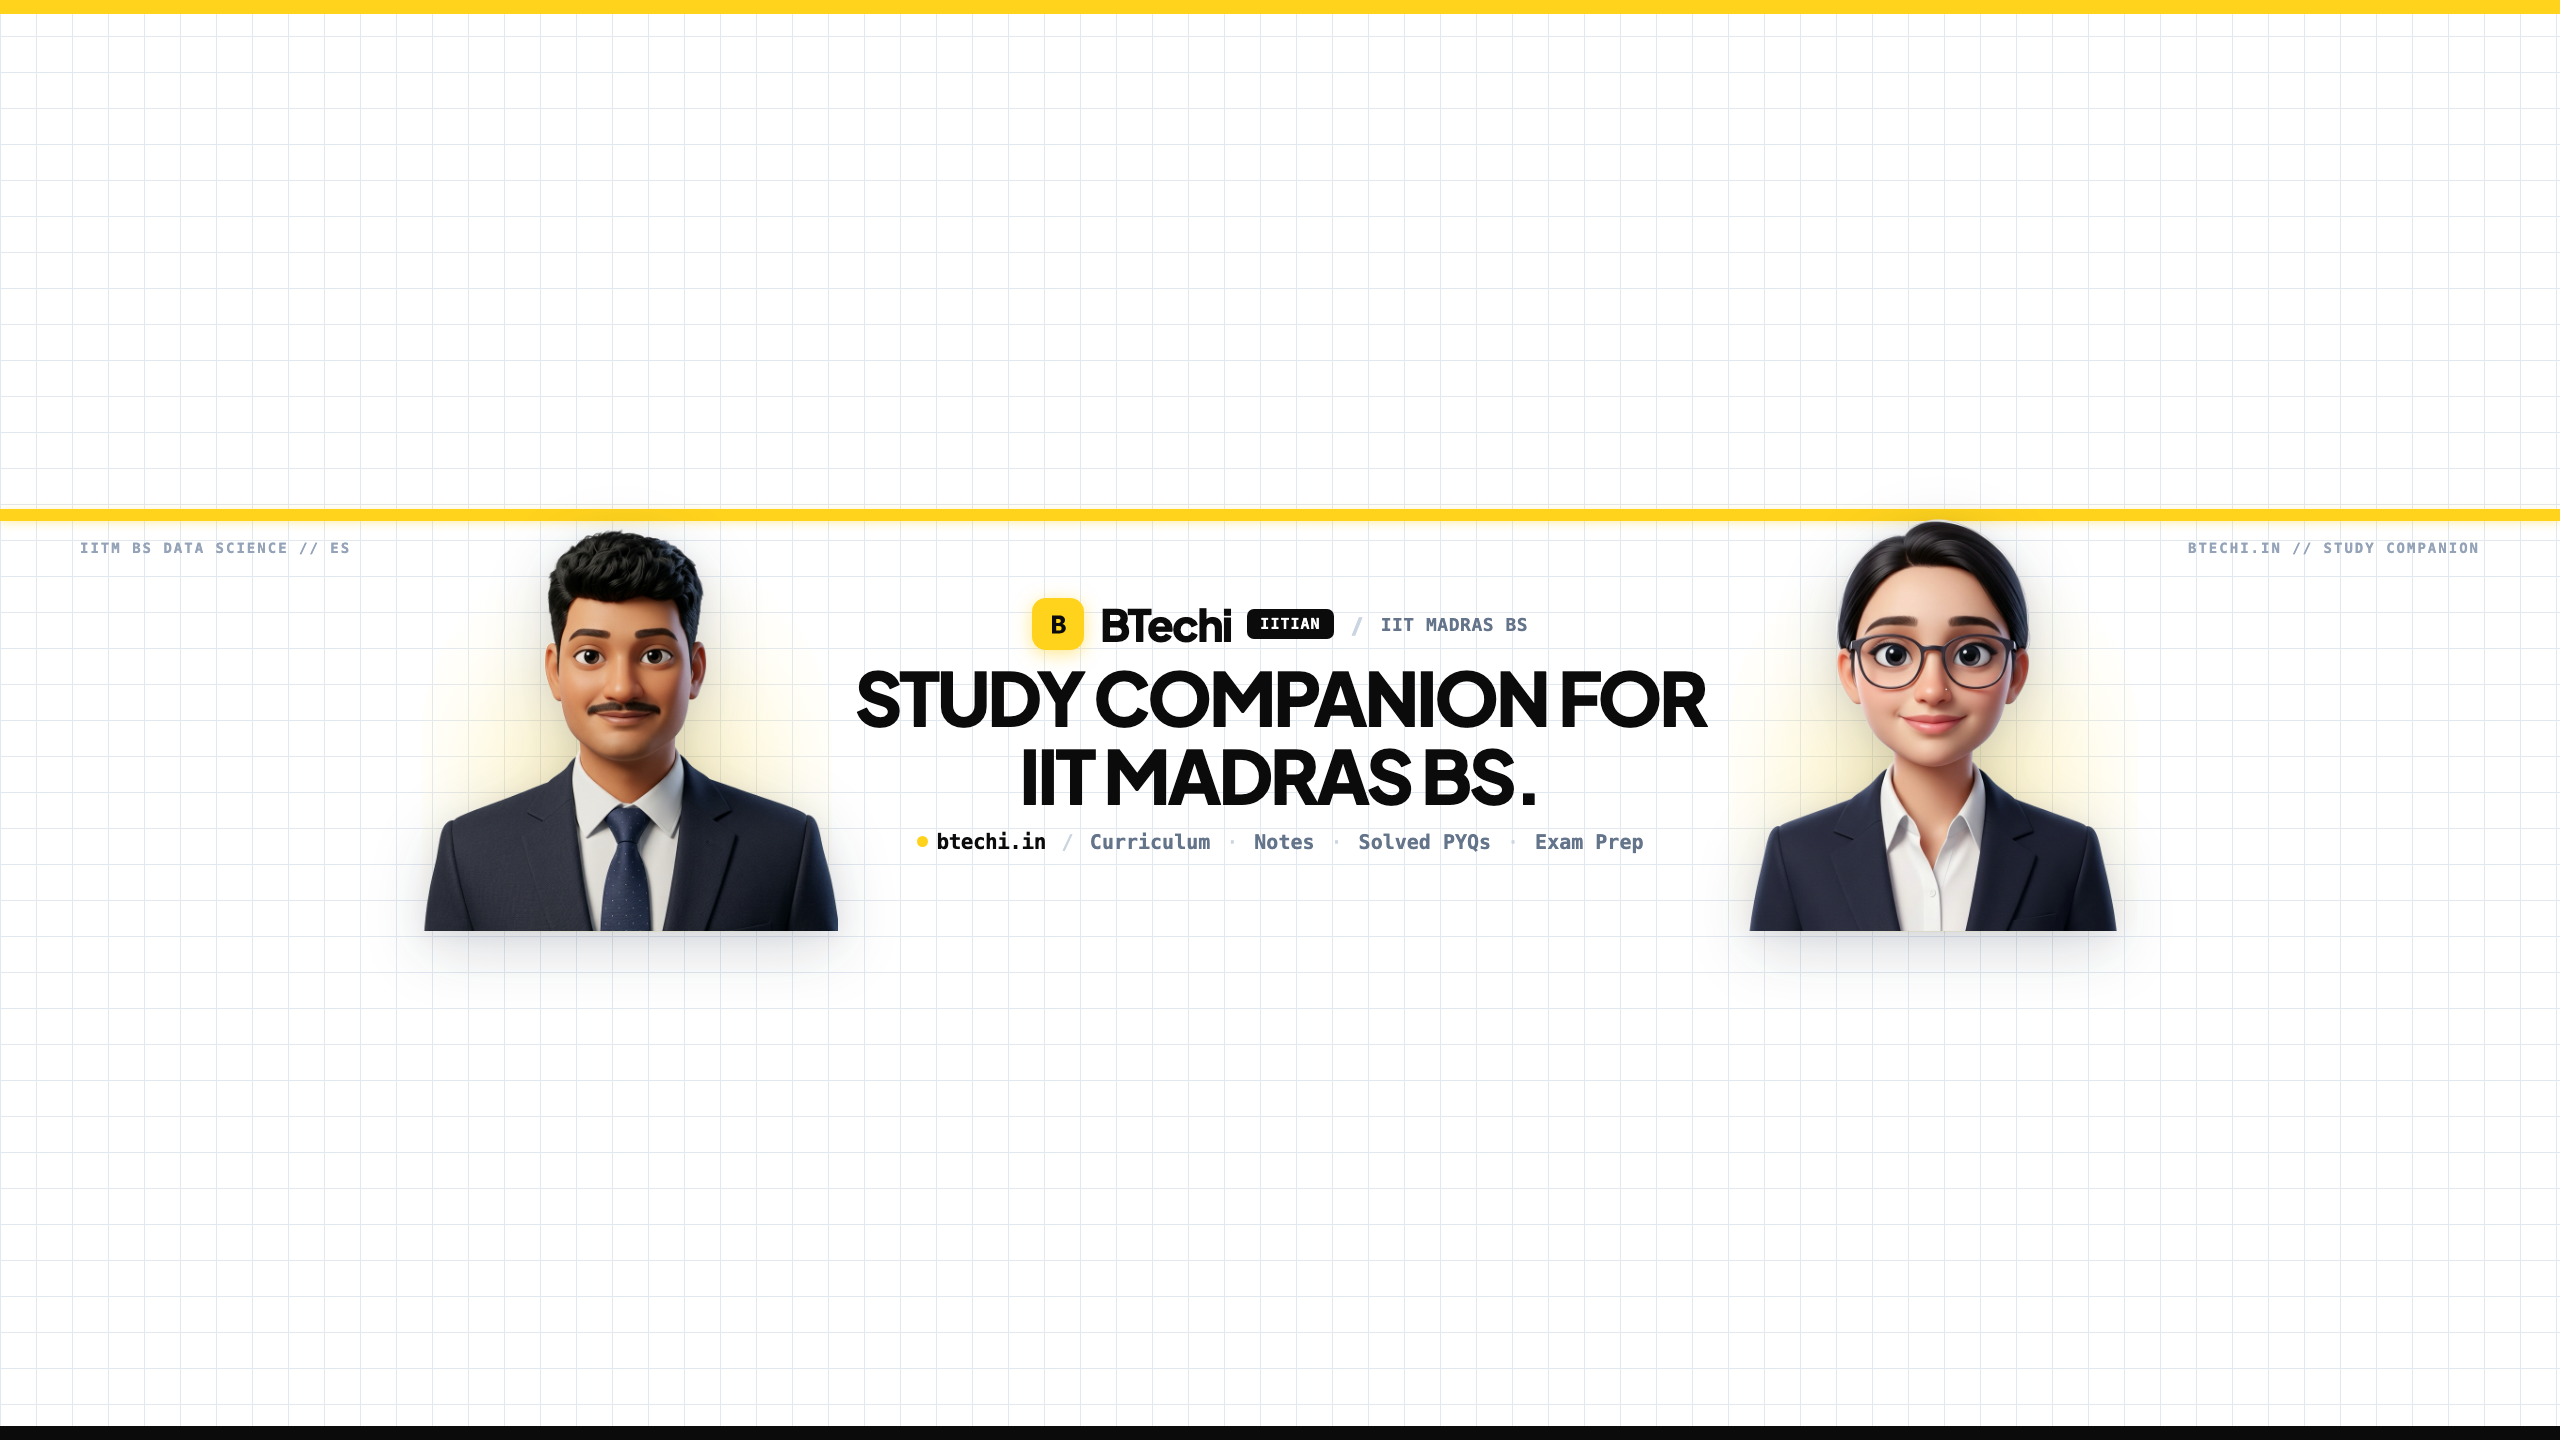
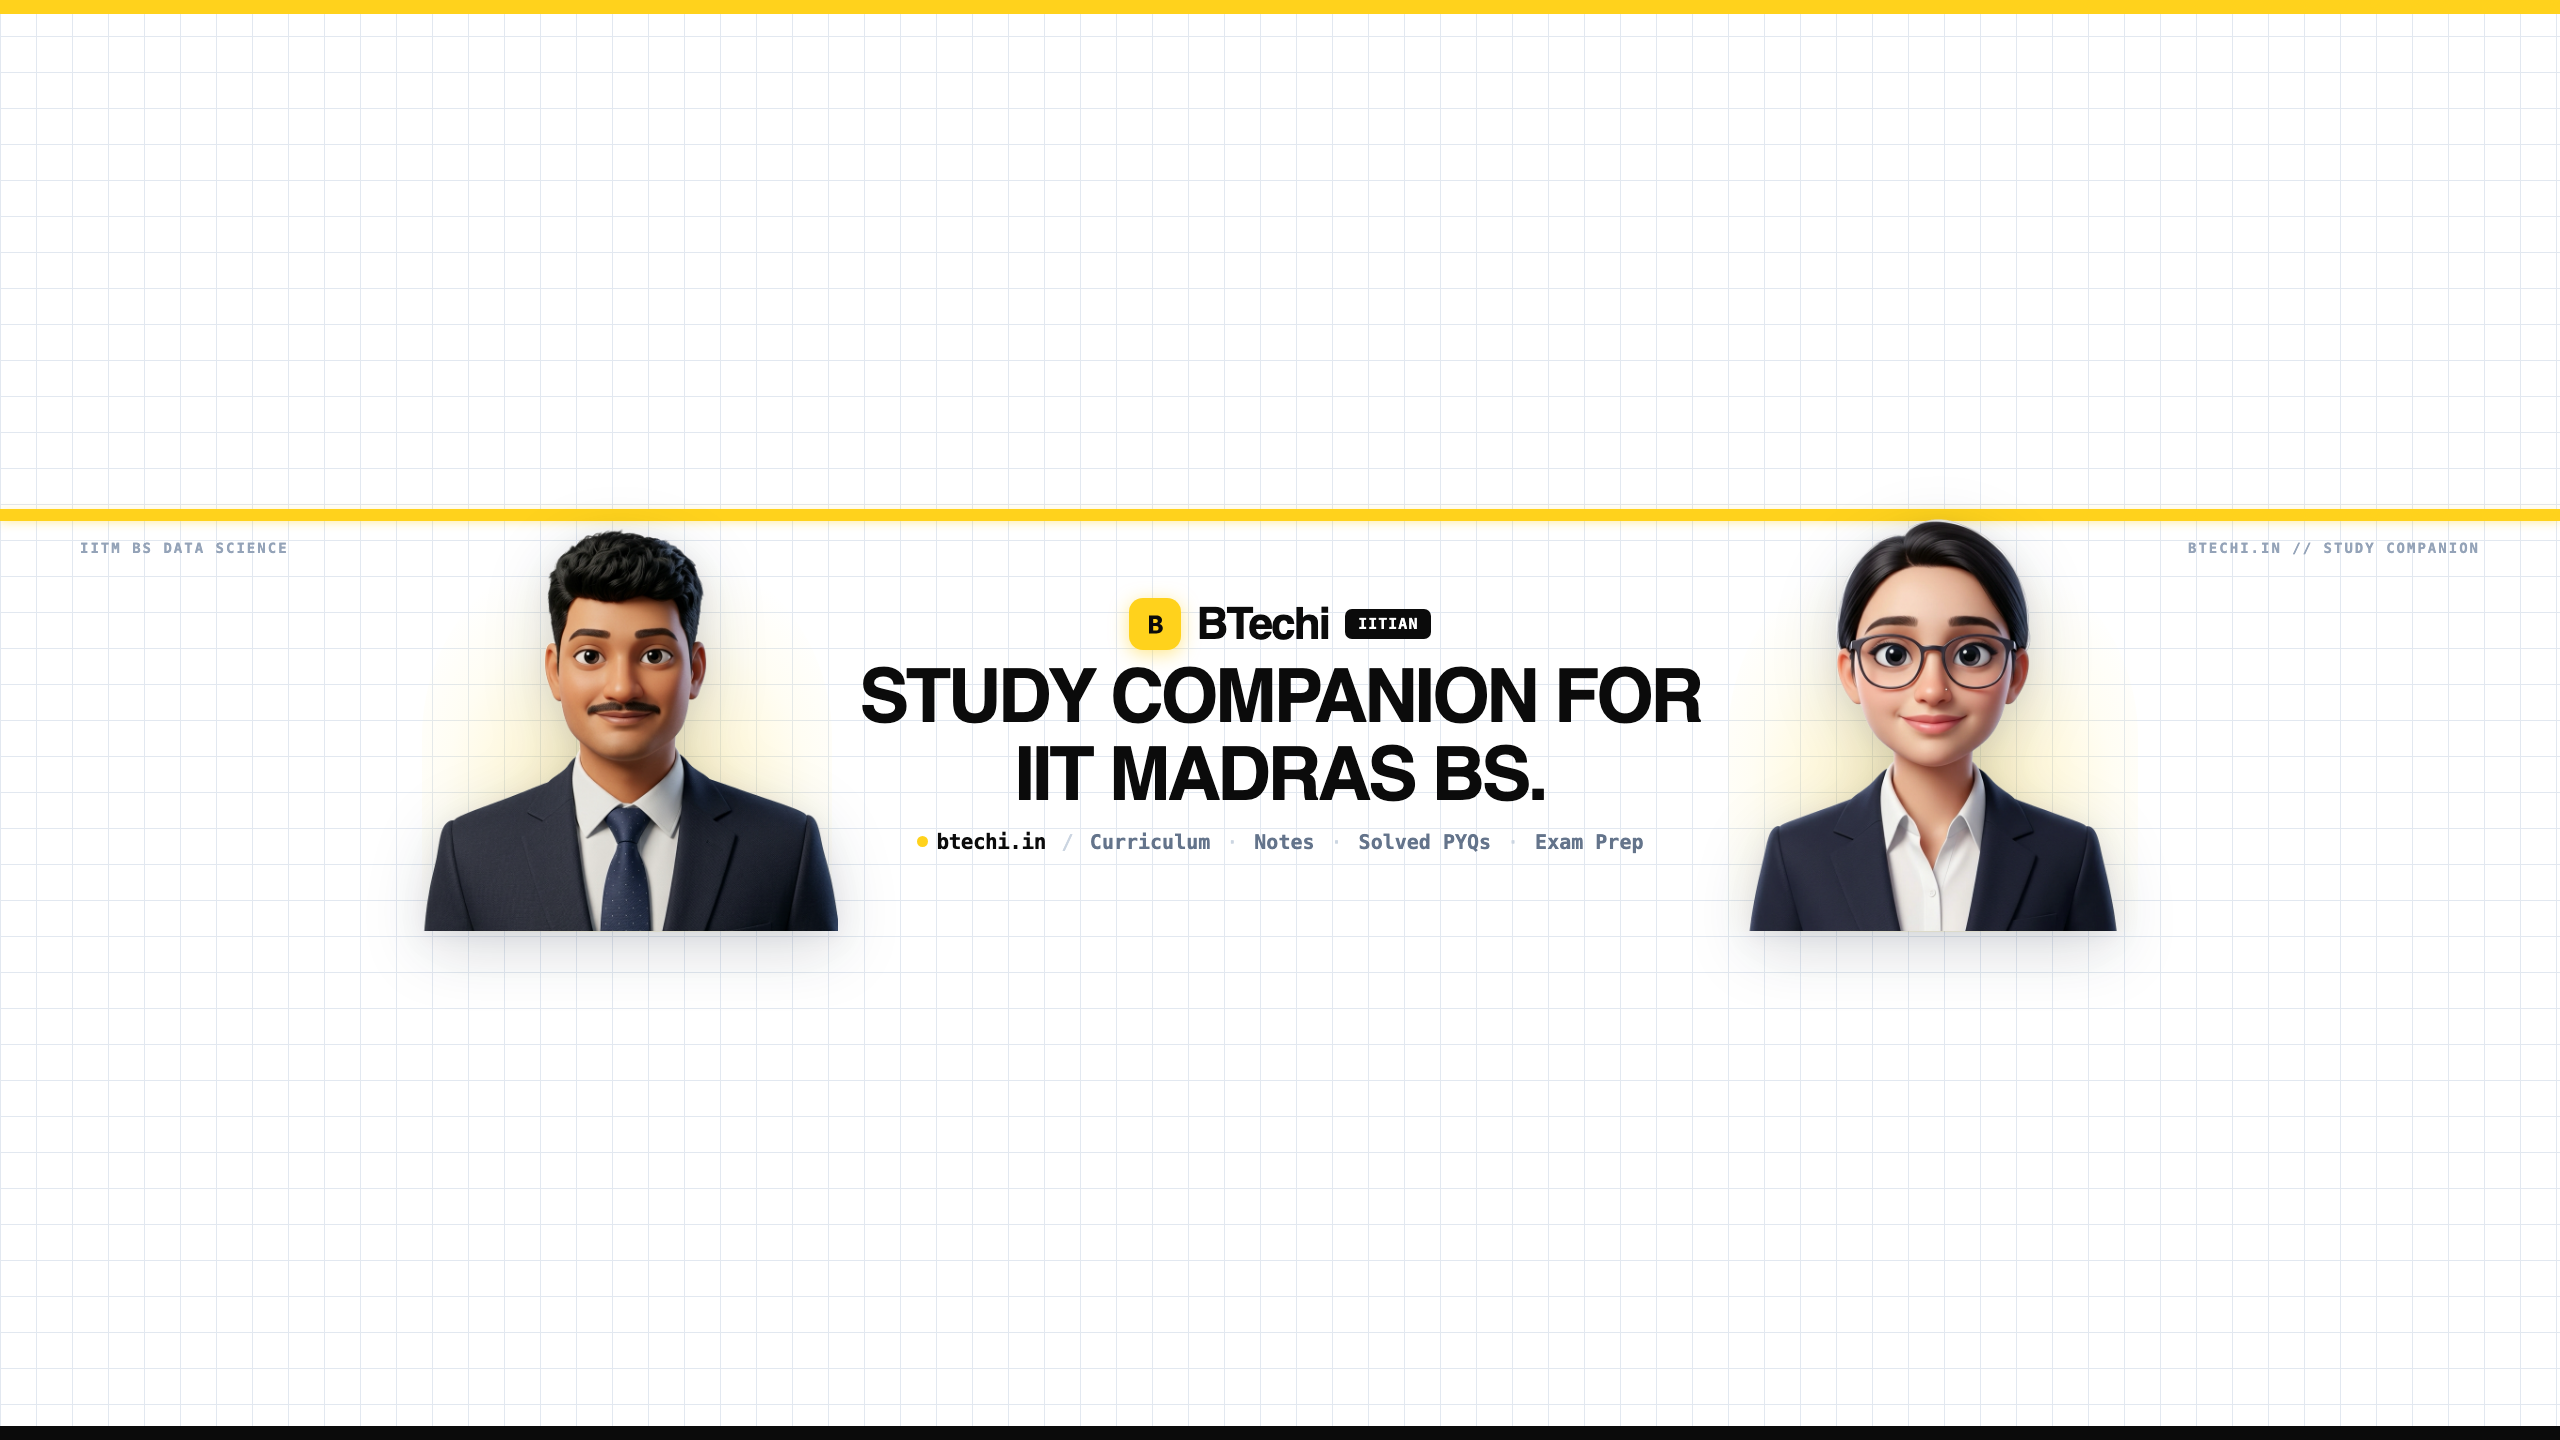
Update site files

Changed region(s): [[0.3125, 0.4062, 0.6875, 0.5625]]

diff --git a/scripts/youtube-banners/btechi/html/btechi-duo-yt-banner.html b/scripts/youtube-banners/btechi/html/btechi-duo-yt-banner.html
@@ -274,7 +274,7 @@
   <div class="bg-math-grid"></div>
 
   <!-- Ultrawide Desktop Wing Details -->
-  <div class="desktop-wing-left">IITM BS DATA SCIENCE // ES</div>
+  <div class="desktop-wing-left">IITM BS DATA SCIENCE</div>
   <div class="desktop-wing-right">BTECHI.IN // STUDY COMPANION</div>
 
   <!-- Signature Edge-to-Edge BTechi Yellow Line -->
@@ -300,8 +300,6 @@
         </div>
         <span class="brand-title">BTechi</span>
         <span class="iitian-badge">IITian</span>
-        <span class="brand-sep">/</span>
-        <span class="brand-subtext">IIT Madras BS</span>
       </div>
 
       <!-- Monumental Normal Big Text (74px) -->
